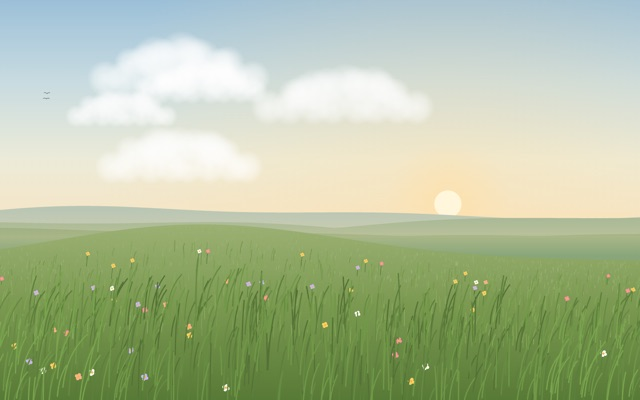
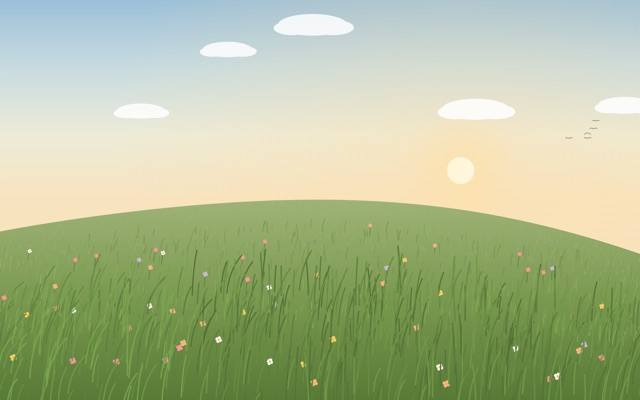
Breeze: one broad hill against the sky, under picture-book clouds
Seen from a little below, the hill's crest is the horizon: no distant ranges,
no haze. The clouds are flat ovals, filled together in one stroke, and the sun
stands just above the crest.

Claude-Session: https://claude.ai/code/session_01KiTahFAuY36gWxVkuonbmo

diff --git a/source/client/assets/wallpapers/breeze.html b/source/client/assets/wallpapers/breeze.html
@@ -30,7 +30,7 @@
     field: ["#9fb377", "#7a9850", "#577a36"],
     grass: [[82, 28, 54], [86, 32, 44], [90, 36, 33]],
     bird: "rgba(52, 60, 58, 0.62)", star: 0,
-    petals: ["#ffffff", "#ffd166", "#ff8fa3", "#c8b6ff", "#ffb38a"], heart: "#f2b544", stem: "#4f7a34", cloud: 0.92
+    petals: ["#ffffff", "#ffd166", "#ff8fa3", "#c8b6ff", "#ffb38a"], heart: "#f2b544", stem: "#4f7a34", cloud: 0.85
   }
   var NIGHT = {
     sky: ["#060b16", "#0c1729", "#16263c", "#22344a"],
@@ -39,7 +39,7 @@
     field: ["#1a2827", "#13211d", "#0c1814"],
     grass: [[150, 14, 19], [142, 18, 15], [134, 22, 11]],
     bird: "rgba(0, 0, 0, 0)", star: 1,
-    petals: ["#9aa3b8", "#9a9172", "#9a7889", "#8a83a8", "#9a8476"], heart: "#6e6440", stem: "#1e3326", cloud: 0.12
+    petals: ["#9aa3b8", "#9a9172", "#9a7889", "#8a83a8", "#9a8476"], heart: "#6e6440", stem: "#1e3326", cloud: 0.4
   }
 
   var canvas = document.getElementById("field")
@@ -48,7 +48,7 @@
   var skyCtx = sky.getContext("2d", { alpha: false })
 
   var W = 0, H = 0, DPR = 1, horizon = 0
-  var layers = [], birds = [], fireflies = [], stars = [], flowers = [], clouds = [], cloudShapes = []
+  var layers = [], birds = [], fireflies = [], stars = [], flowers = [], clouds = []
   var birdWait = 4
 
   // The Desktop names the Theme it shows the page in; opened on its own, the page follows the browser.
@@ -66,42 +66,15 @@
     return "rgb(" + Math.round(mix(a[0], b[0], t)) + "," + Math.round(mix(a[1], b[1], t)) + "," + Math.round(mix(a[2], b[2], t)) + ")"
   }
 
-  // Rolling ground: a few long, slow waves, so the hills never repeat a shape.
-  function ridge(x, seed, height) {
-    var u = x / W
-    return (Math.sin(u * 2.3 + seed) * 0.5 + Math.sin(u * 5.1 + seed * 2.7) * 0.28 + Math.sin(u * 11.7 + seed * 1.3) * 0.12) * height
-  }
-
-  // The near hill: it rises gently toward the left of the field and falls away to the right.
+  // One broad hill, seen from a little below: its crest is the horizon, highest left of the middle.
   function hillAt(x) {
     var u = x / W
-    return horizon + H * (0.07 - 0.12 * Math.exp(-Math.pow((u - 0.3) / 0.34, 2)) + 0.015 * Math.sin(u * 4.1 + 0.8))
+    return horizon + H * (0.42 * (u - 0.42) * (u - 0.42) + 0.012 * Math.sin(u * 5.3 + 0.6))
   }
   // Where something at a depth from 0 (the crest) to 1 (the foot of the screen) stands at x.
   function groundAt(x, depth) {
     var top = hillAt(x)
     return top + Math.pow(depth, 1.4) * (H - top) + 6
-  }
-
-  // A soft cloud, drawn once from overlapping puffs; each frame only moves it.
-  function cloudShape() {
-    var shape = document.createElement("canvas"), w = 420, h = 150
-    shape.width = w; shape.height = h
-    var g = shape.getContext("2d")
-    // A flat base of low puffs, then a crown of larger ones rising toward the middle, all touching.
-    for (var b = 0; b < 8; b++) {
-      var bx = 70 + b * 40 + random(-6, 6), base = g.createRadialGradient(bx, 108, 0, bx, 108, 34)
-      base.addColorStop(0, "rgba(255,255,255,0.75)"); base.addColorStop(0.6, "rgba(255,255,255,0.45)"); base.addColorStop(1, "rgba(255,255,255,0)")
-      g.fillStyle = base; g.beginPath(); g.arc(bx, 108, 34, 0, 6.283); g.fill()
-    }
-    for (var i = 0; i < 9; i++) {
-      var along = 0.18 + (i / 8) * 0.64 + random(-0.03, 0.03), px = 60 + along * 300, rise = Math.sin(along * Math.PI)
-      var py = 100 - rise * 34 + random(-4, 4), r = random(34, 46) * (0.6 + 0.4 * rise)
-      var puff = g.createRadialGradient(px, py, 0, px, py, r)
-      puff.addColorStop(0, "rgba(255,255,255,0.8)"); puff.addColorStop(0.55, "rgba(255,255,255,0.5)"); puff.addColorStop(1, "rgba(255,255,255,0)")
-      g.fillStyle = puff; g.beginPath(); g.arc(px, py, r, 0, 6.283); g.fill()
-    }
-    return shape
   }
 
   function build() {
@@ -142,9 +115,8 @@
       var depthOf = random(0.25, 1), at = random(0, W)
       flowers.push({ x: at, y: groundAt(at, depthOf), h: random(16, 38) * (0.6 + depthOf * 0.8), size: 1.8 + depthOf * 3, hue: Math.floor(random(0, 5)), phase: random(0, 6.283) })
     }
-    if (cloudShapes.length === 0) for (var c = 0; c < 3; c++) cloudShapes.push(cloudShape())
     clouds = []
-    for (var n = 0; n < 5; n++) clouds.push({ x: random(-200, W), y: random(H * 0.05, H * 0.3), scale: random(0.7, 1.35), speed: random(W / 420, W / 220), shape: cloudShapes[n % 3] })
+    for (var n = 0; n < 5; n++) clouds.push({ x: random(-200, W), y: random(H * 0.06, H * 0.3), scale: random(0.7, 1.4), speed: random(W / 420, W / 220) })
   }
 
   // The sky, the sun or moon, the hills and the ground under the grass: drawn once per size and
@@ -173,7 +145,7 @@
     }
 
     // The sun sits low, just above the hills; the moon rides higher.
-    var sx = W * 0.7, sy = mix(horizon - H * 0.09, H * 0.2, t)
+    var sx = W * 0.72, sy = mix(hillAt(W * 0.72) - H * 0.1, H * 0.2, t)
     var light = [mix(DAY.glow[0], NIGHT.glow[0], t), mix(DAY.glow[1], NIGHT.glow[1], t), mix(DAY.glow[2], NIGHT.glow[2], t)].map(Math.round).join(",")
     var glow = skyCtx.createRadialGradient(sx, sy, 0, sx, sy, Math.max(W, H) * mix(0.55, 0.3, t))
     glow.addColorStop(0, "rgba(" + light + "," + mix(0.85, 0.5, t) + ")")
@@ -183,23 +155,7 @@
     skyCtx.fillStyle = color(DAY.disc, NIGHT.disc, t)
     skyCtx.beginPath(); skyCtx.arc(sx, sy, H * mix(0.034, 0.024, t), 0, 6.283); skyCtx.fill()
 
-    // Three ranges of hills, paler with distance.
-    for (var r = 0; r < 3; r++) {
-      var base = horizon - H * (0.05 - r * 0.02)
-      skyCtx.fillStyle = color(DAY.hills[r], NIGHT.hills[r], t)
-      skyCtx.beginPath(); skyCtx.moveTo(0, H)
-      for (var x = 0; x <= W + 16; x += 16) skyCtx.lineTo(x, base - Math.abs(ridge(x, r * 1.9 + 0.4, H * (0.05 - r * 0.012))))
-      skyCtx.lineTo(W, H); skyCtx.closePath(); skyCtx.fill()
-    }
-
-    // A thin haze where the land meets the sky, lit by the low sun.
-    var haze = skyCtx.createLinearGradient(0, horizon - H * 0.08, 0, horizon + H * 0.04)
-    haze.addColorStop(0, "rgba(" + light + ",0)")
-    haze.addColorStop(0.6, "rgba(" + light + "," + mix(0.28, 0.08, t) + ")")
-    haze.addColorStop(1, "rgba(" + light + ",0)")
-    skyCtx.fillStyle = haze; skyCtx.fillRect(0, horizon - H * 0.08, W, H * 0.12)
-
-    var ground = skyCtx.createLinearGradient(0, horizon - H * 0.06, 0, H)
+    var ground = skyCtx.createLinearGradient(0, horizon, 0, H)
     for (var f = 0; f < 3; f++) ground.addColorStop(f / 2, color(DAY.field[f], NIGHT.field[f], t))
     skyCtx.fillStyle = ground
     skyCtx.beginPath(); skyCtx.moveTo(0, H)
@@ -283,14 +239,20 @@
     ctx.fill()
   }
 
+  // Clouds of three flat ovals each, all filled in one stroke of colour.
   function drawClouds(dt) {
     ctx.globalAlpha = mix(DAY.cloud, NIGHT.cloud, night)
+    ctx.fillStyle = color("#ffffff", "#3a4a64", night)
+    ctx.beginPath()
     for (var i = 0; i < clouds.length; i++) {
-      var c = clouds[i], w = 420 * c.scale, h = 150 * c.scale
+      var c = clouds[i], k = c.scale
       c.x += c.speed * dt
-      if (c.x > W + 40) { c.x = -w - random(0, 200); c.y = random(H * 0.05, H * 0.3) }
-      ctx.drawImage(c.shape, c.x, c.y, w, h)
+      if (c.x > W + 120 * k) { c.x = -140 * k - random(0, 200); c.y = random(H * 0.06, H * 0.3) }
+      ctx.moveTo(c.x + 64 * k, c.y); ctx.ellipse(c.x, c.y, 64 * k, 20 * k, 0, 0, 6.283)
+      ctx.moveTo(c.x - 4 * k, c.y + 6 * k); ctx.ellipse(c.x - 38 * k, c.y + 6 * k, 34 * k, 13 * k, 0, 0, 6.283)
+      ctx.moveTo(c.x + 76 * k, c.y + 5 * k); ctx.ellipse(c.x + 38 * k, c.y + 5 * k, 38 * k, 14 * k, 0, 0, 6.283)
     }
+    ctx.fill()
     ctx.globalAlpha = 1
   }
 
@@ -369,7 +331,7 @@
     DPR = Math.min(window.devicePixelRatio || 1, W * H > 1920 * 1200 ? 1 : 1.5)
     canvas.width = Math.max(2, Math.floor(W * DPR)); canvas.height = Math.max(2, Math.floor(H * DPR))
     ctx.setTransform(DPR, 0, 0, DPR, 0, 0)
-    horizon = H * 0.6
+    horizon = H * 0.5
     skyKey = ""
     build()
   }
